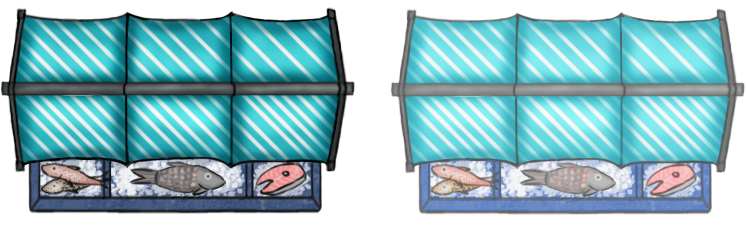
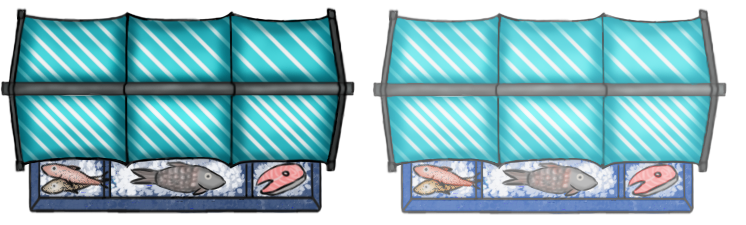
Fishstand hover

Changed region(s): [[0.4933, 0.0311, 1.0, 0.9644], [0.6475, 0.9333, 0.6783, 0.9644]]

diff --git a/GXPEngine/LevelLoader.cs b/GXPEngine/LevelLoader.cs
@@ -105,10 +105,10 @@ class LevelLoader : GameObject
                         FishStandList.Add(fishStand);
                         break;
 
-                        case "Character":
+                    case "Character":
                         character = new Character();
                         AddChild(character);
-                            break;
+                        break;
 
                         //case "GreenPickupTube":
                         //    break;

diff --git a/GXPEngine/MarketStands.cs b/GXPEngine/MarketStands.cs
@@ -30,12 +30,10 @@ public class MarketStands : AnimationSprite
     {
         if (_mouseX >= x - width / 2 && _mouseX <= x + width / 2 && _mouseY >= y - height / 2 && _mouseY <= y + height / 2)
         {
-            //Console.WriteLine("on");
             SetFrame(1);           
         }
         else
         {
-            //Console.WriteLine("off");
             SetFrame(0);
         }
     }
